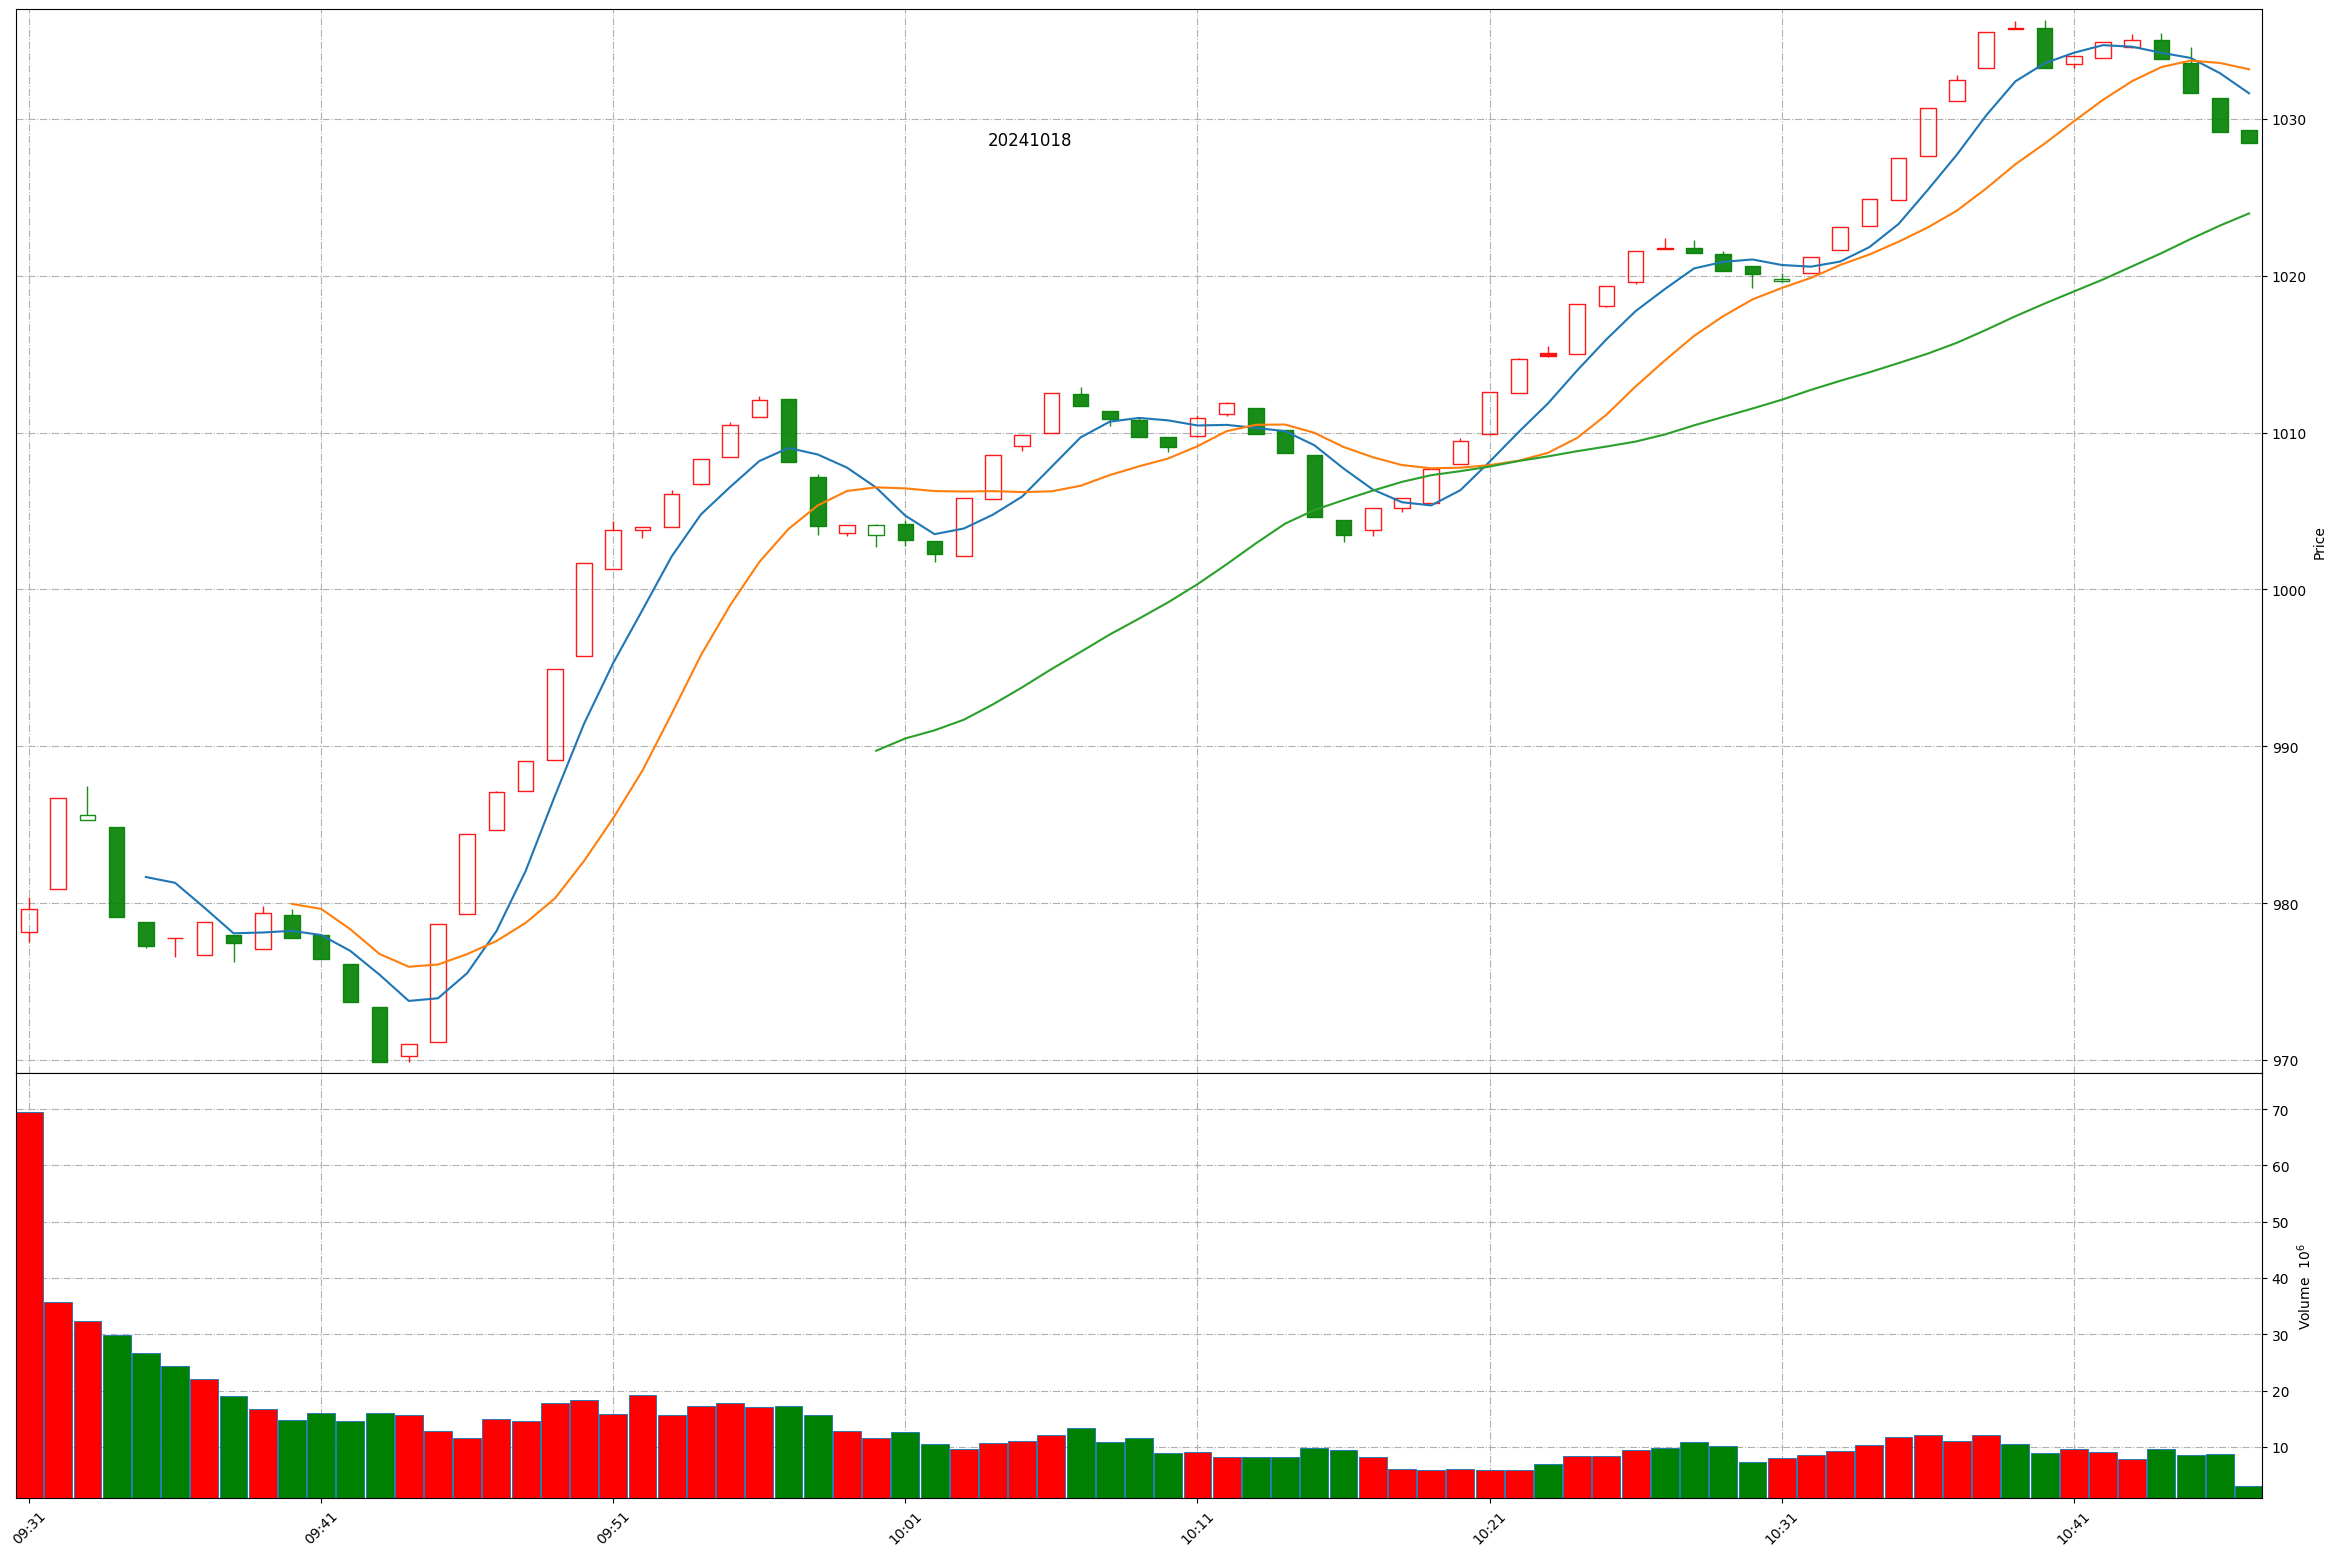
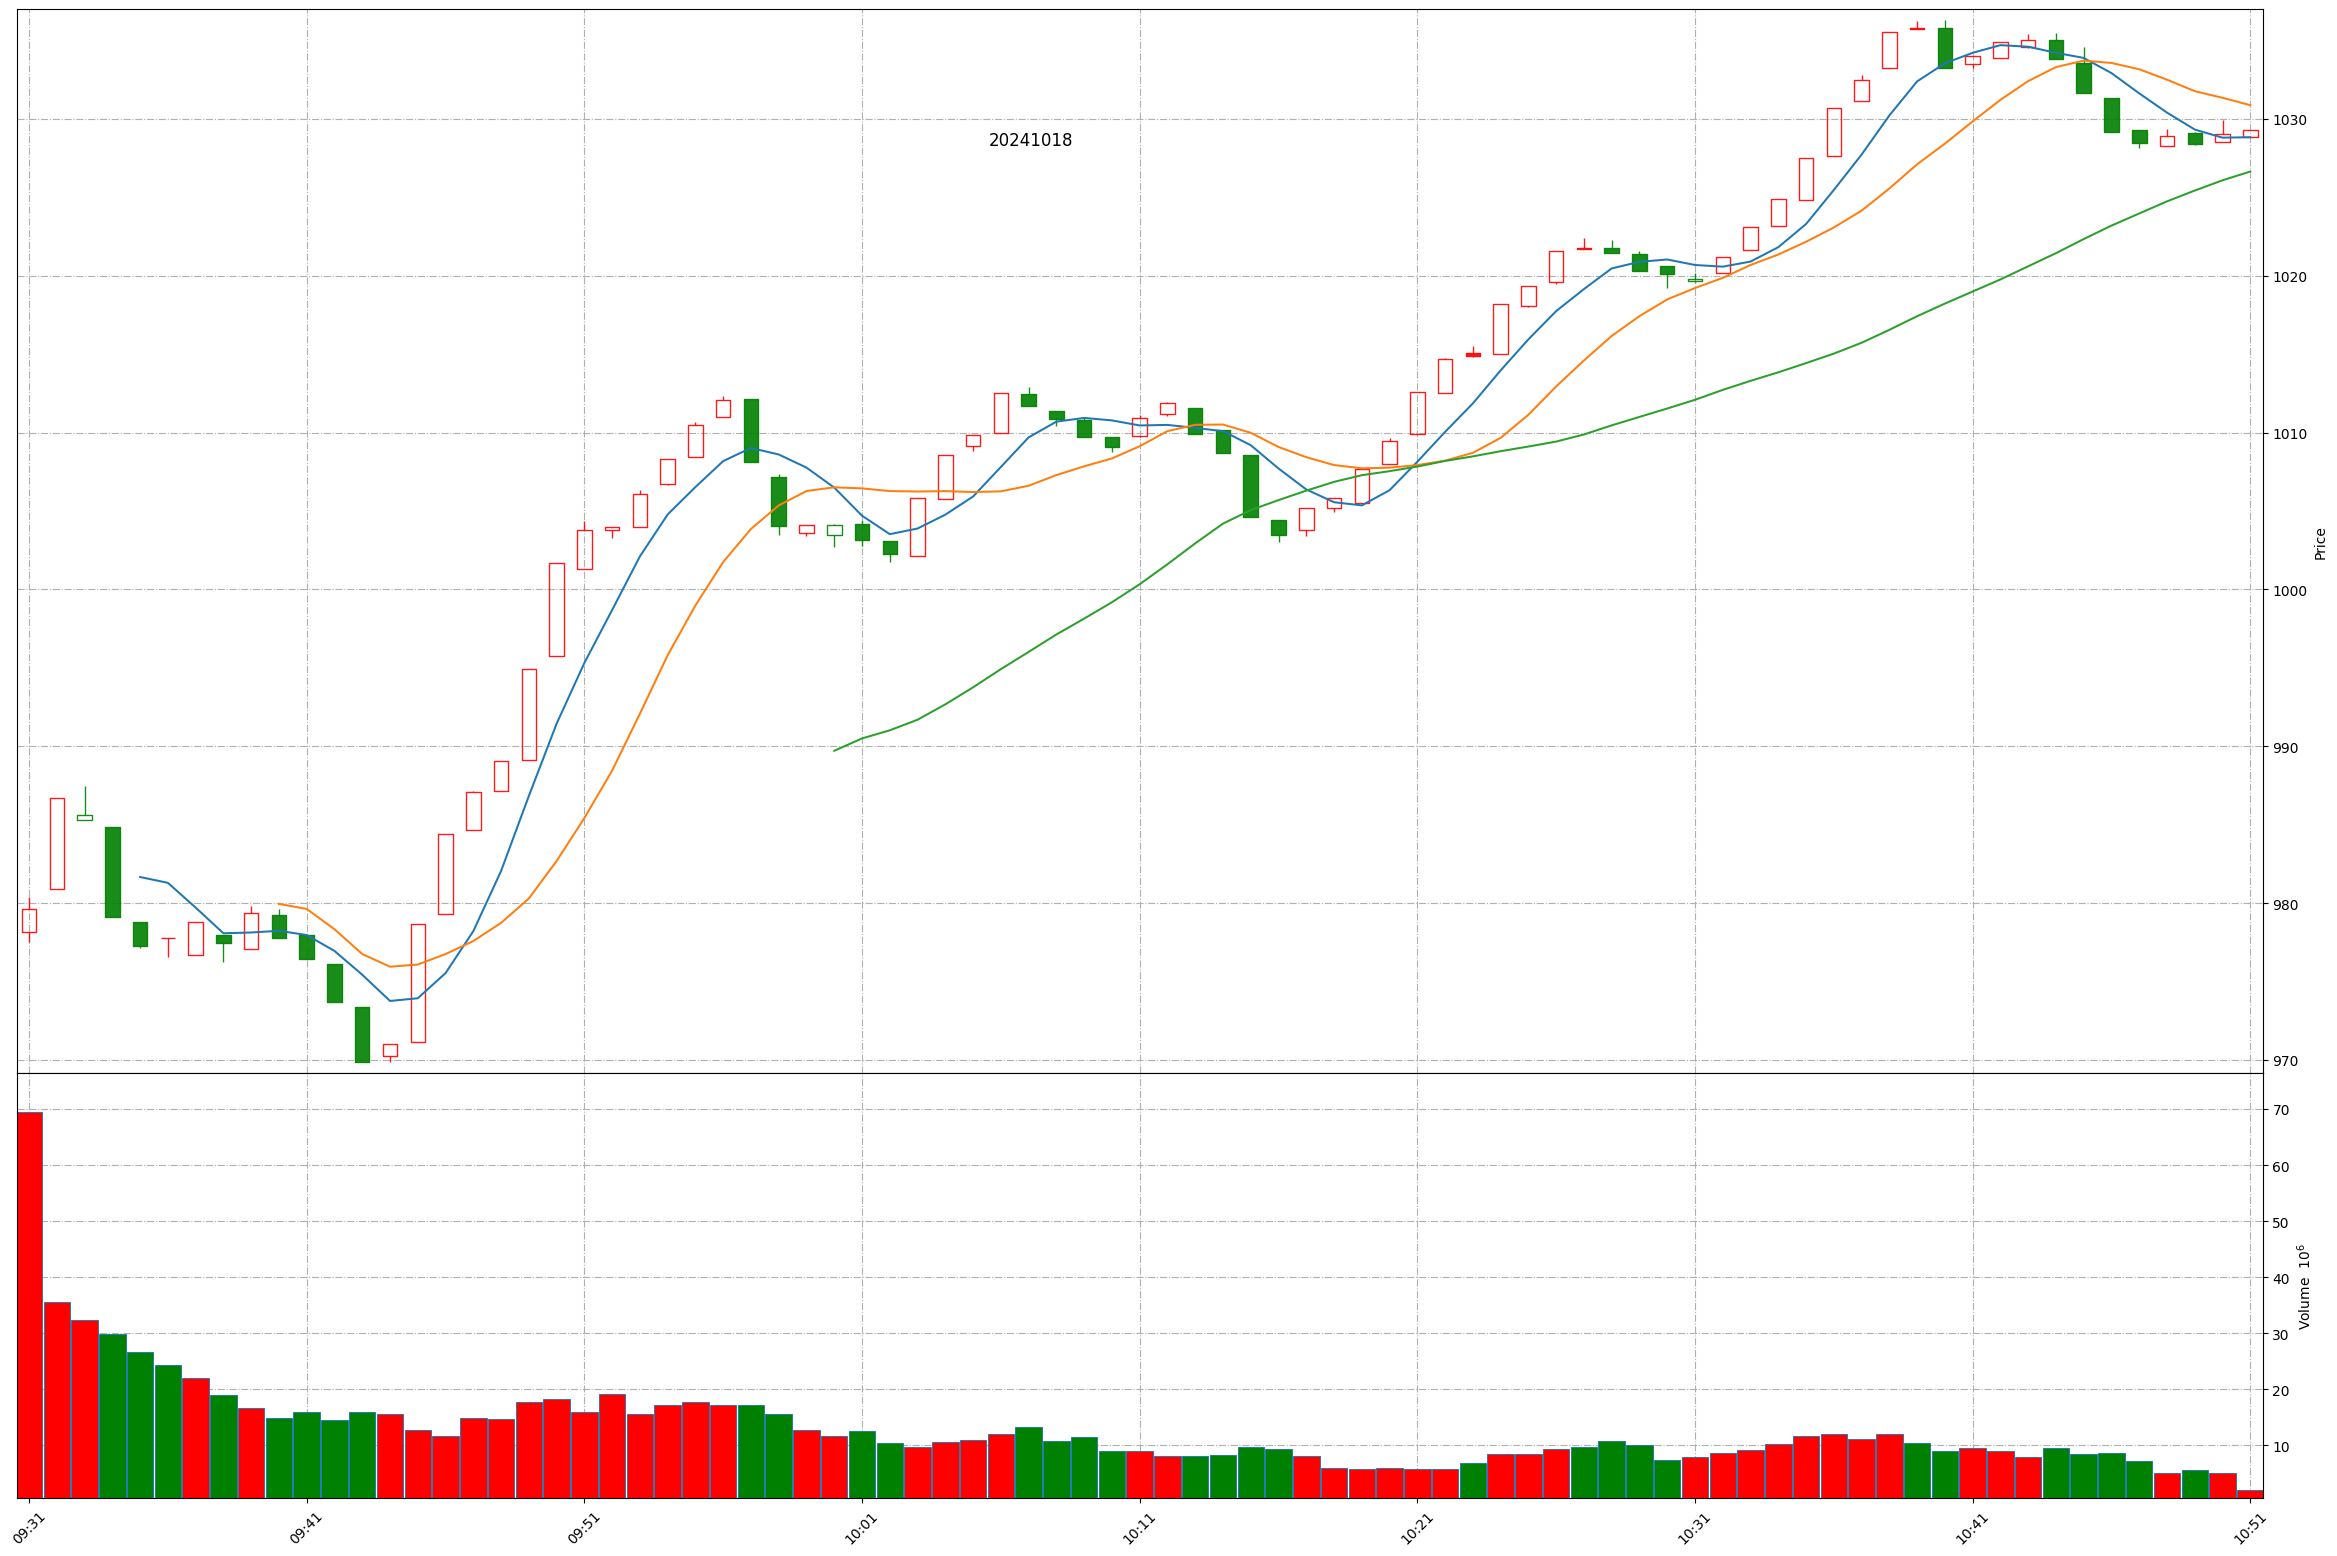
Github action update at 2024-10-18 10:50:35.

diff --git a/README.md b/README.md
@@ -1,11 +1,11 @@
 
 # Daily-A-share-market-quotes 每日 A 股指数（5min 更新）- 20241018
 
-### 上证指数 20241018 10:46
+### 上证指数 20241018 10:50
 ![](./fig/2024/10/20241018-sh000001.png)
 
-### 深证成指 20241018 10:46
+### 深证成指 20241018 10:50
 ![](./fig/2024/10/20241018-sz399001.png)
 
-### 北证50 20241018 10:46
+### 北证50 20241018 10:50
 ![](./fig/2024/10/20241018-bj899050.png)
